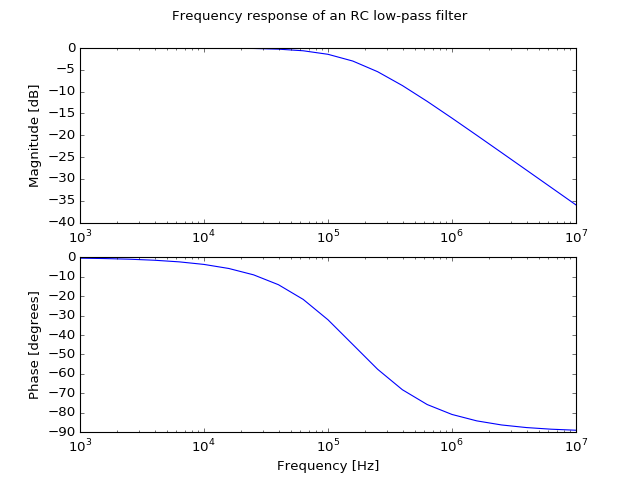
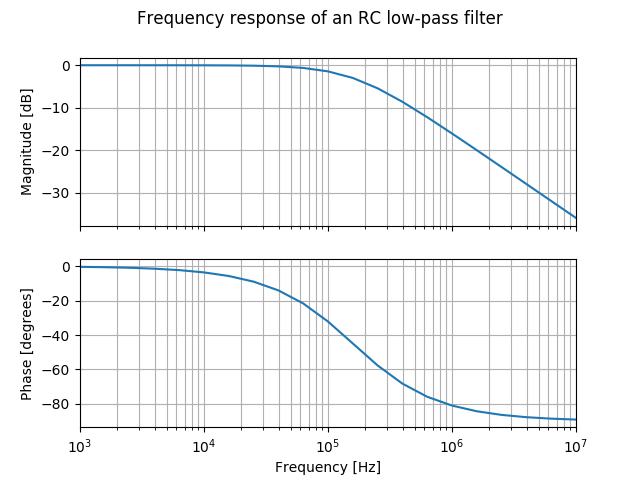
DOC: Improve lowpass example plot
Add grids, sharex

Change x margins to 0 for MPL 2.0

Updated image with all changes

Use Pythonic ac() command instead of cmd()

diff --git a/examples/lowpass/lowpass.py b/examples/lowpass/lowpass.py
@@ -11,24 +11,25 @@ ngspyce.cmd('source lowpass.net')
 
 # Calculate small-signal transfer function between 1 kHz and 10 MHz, with 5
 # points per decade
-ngspyce.cmd('ac dec 5 1k 10meg')
+ngspyce.ac(mode='dec', npoints=5, fstart=1e3, fstop=10e6)
 
 # Read results
 freq = np.abs(ngspyce.vector('frequency'))
 vout = ngspyce.vector('vout')
 
 # And plot them
-fig = plt.figure()
+fig, (ax1, ax2) = plt.subplots(2, sharex=True)
 fig.suptitle('Frequency response of an RC low-pass filter')
 
-ax = fig.add_subplot(2, 1, 1)
-ax.semilogx(freq, 20*np.log10(np.abs(vout)))
-ax.set_ylabel('Magnitude [dB]')
+ax1.semilogx(freq, 20*np.log10(np.abs(vout)))
+ax1.set_ylabel('Magnitude [dB]')
+ax1.grid(True, which='both')
 
-ax = fig.add_subplot(2, 1, 2)
-ax.semilogx(freq, np.angle(vout, True))
-ax.set_xlabel('Frequency [Hz]')
-ax.set_ylabel('Phase [degrees]')
+ax2.semilogx(freq, np.angle(vout, True))
+ax2.set_xlabel('Frequency [Hz]')
+ax2.set_ylabel('Phase [degrees]')
+ax2.grid(True, which='both')
+ax2.margins(x=0)
 
 plt.savefig('lowpass.png')
 plt.show()
